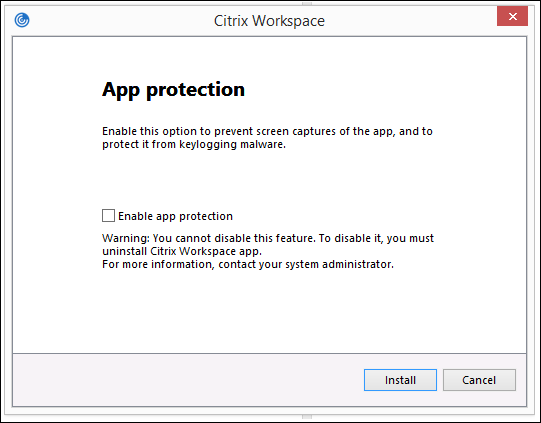
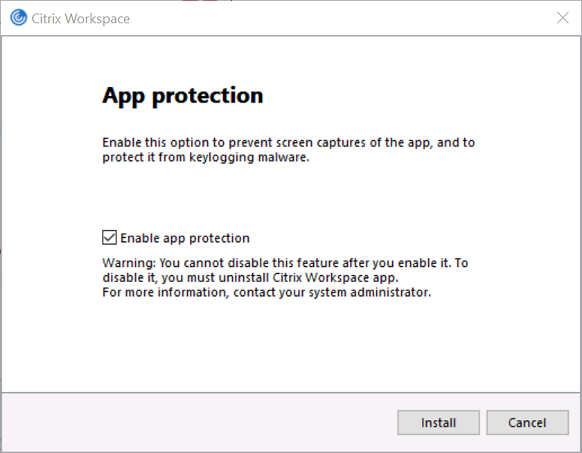
Added checkbox to APP installation (CWA). Few small fixes to other articles.

diff --git a/en-us/tech-zone/design/design-decisions/baseline-policy-design.md b/en-us/tech-zone/design/design-decisions/baseline-policy-design.md
@@ -128,7 +128,7 @@ Create exceptions to the baseline policy based on the requirements of the end-us
 
   >**Example:**
   >
-  >In a Citrix Virtual Apps and Desktops deployment, users are not allowed to access the local drives on their endpoint devices inside the Citrix session. Active Directory group membership grants access to local drives. To achieve this behavior, set the "Client drive redirection" setting to "Prohibited" in the baseline policy. Create a policy with a higher priority and set the "Client drive redirection" setting to "Allowed" in the new policy. Add an Active Directory group in the assignments of the new policy. Only users who are a member of the Active Directory group have access to local drives. The default behavior is to deny access to local drives for all other users.*
+  >In a Citrix Virtual Apps and Desktops deployment, users are not allowed to access the local drives on their endpoint devices inside the Citrix session. Active Directory group membership grants access to local drives. To achieve this behavior, set the "Client drive redirection" setting to "Prohibited" in the baseline policy. Create a policy with a higher priority and set the "Client drive redirection" setting to "Allowed" in the new policy. Add an Active Directory group in the assignments of the new policy. Only users who are a member of the Active Directory group have access to local drives. The default behavior is to deny access to local drives for all other users.
 
 ### Policy Management
 

diff --git a/en-us/tech-zone/learn/poc-guides/app-protection-policies.md b/en-us/tech-zone/learn/poc-guides/app-protection-policies.md
@@ -179,3 +179,9 @@ When testing anti-keylogging and anti screen capture protection, be aware of exp
 -  **Anti screen capture** - This feature is active when a protected window is visible (not minimized)
 
 Another simple method to test the anti screen capture protection is to use one of the popular conference tools (GoToMeeting, Microsoft Teams, Zoom, or Slack). Screen sharing should not be possible when protection is enabled.
+
+## References
+
+[Product Documentation - Citrix Workspace app](/en-us/citrix-workspace-app-for-windows/configure.html#app-protection)
+
+[Product Documentation - App protection](/en-us/citrix-virtual-apps-desktops/secure/app-protection.html)

diff --git a/en-us/tech-zone/learn/poc-guides/citrix-waf-deployment.md b/en-us/tech-zone/learn/poc-guides/citrix-waf-deployment.md
@@ -380,7 +380,7 @@ The best way to migrate to the production virtual server would be to turn off bl
 
 Lastly, if the PoC is being run on a test platform that has different resources than production, it is important to consider the resource requirements that change by enabling Web Application Firewall.
 
-## Additional Resources
+## References
 
 [Citrix Product Documentation - Web App Firewall](/en-us/citrix-adc/13/application-firewall)
 
